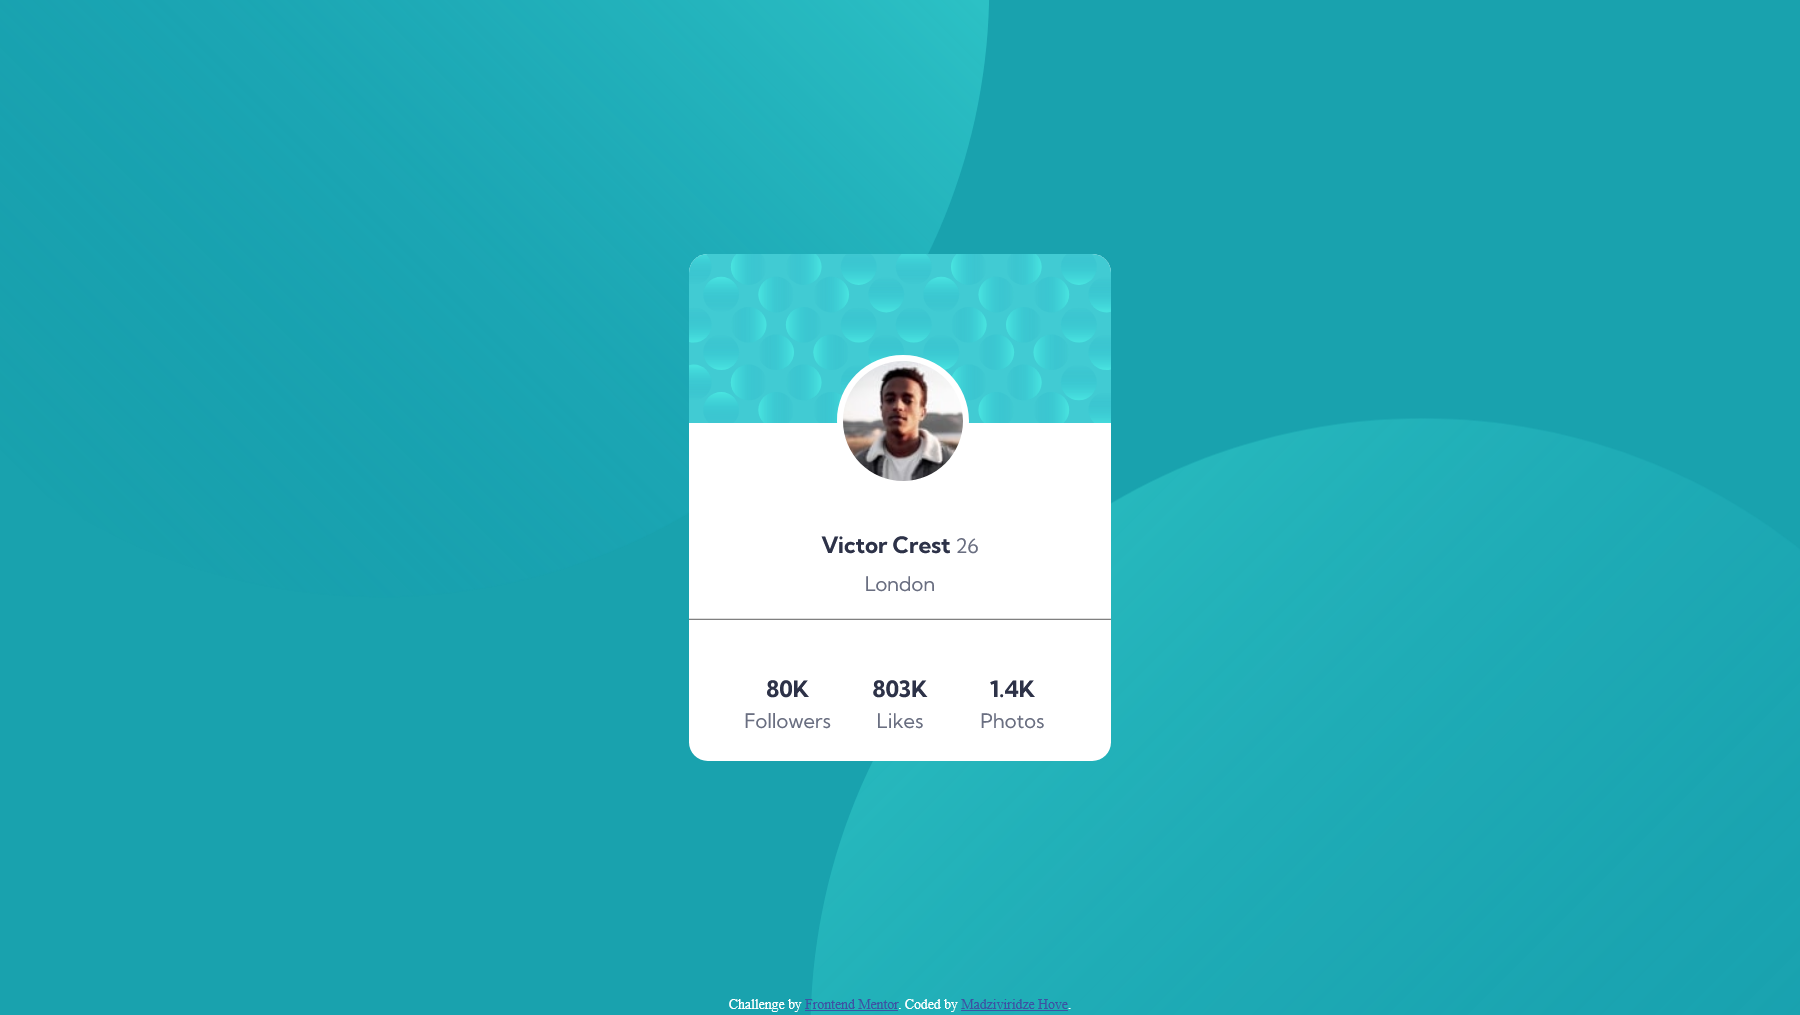
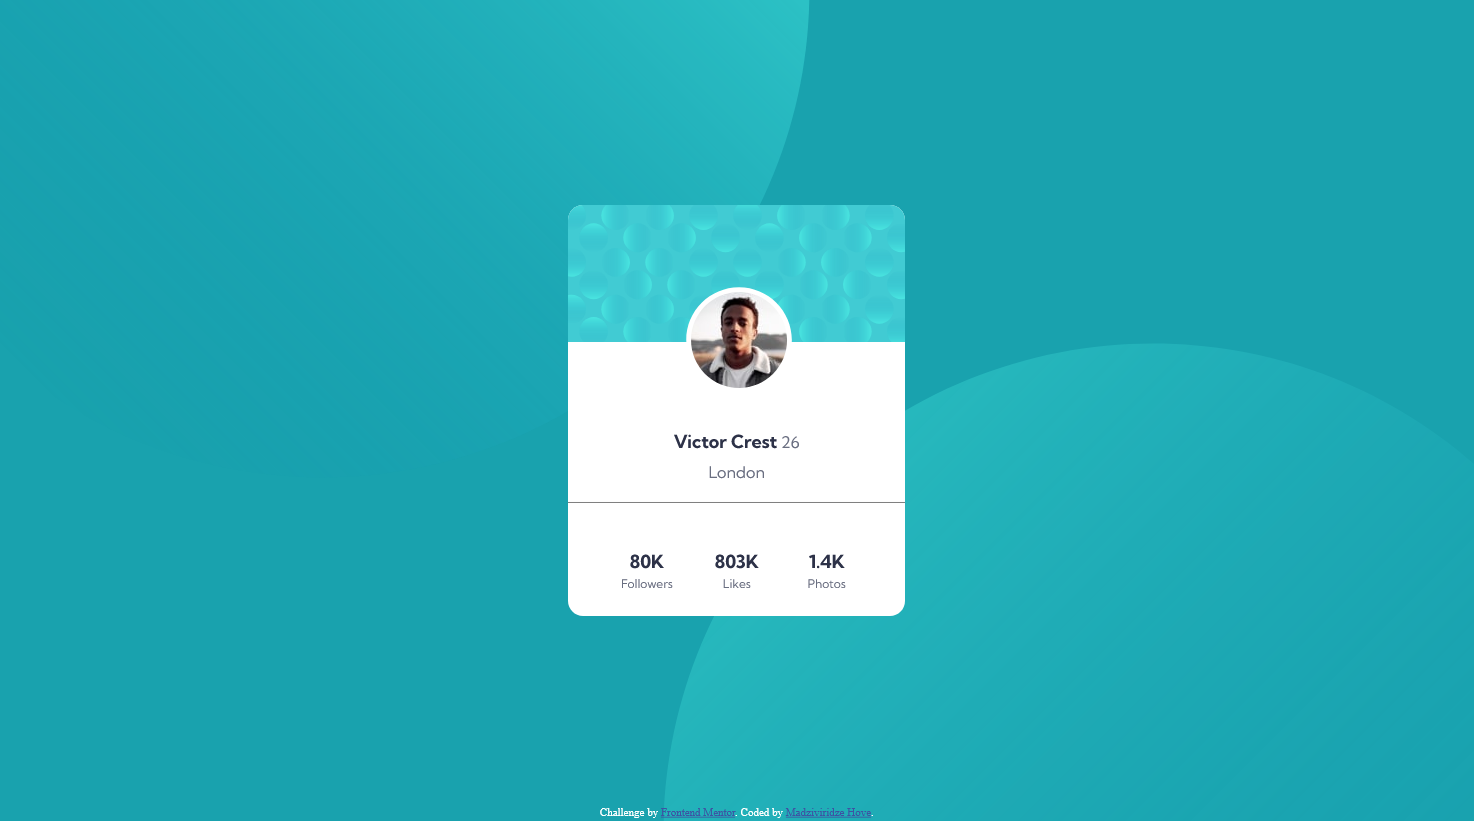
new screenshot and changes to style sheet

diff --git a/css/style.css b/css/style.css
@@ -117,7 +117,7 @@
 }
 
 hr {
-    border-top: 1px solid gainsboro;
+    border-top: 1px solid hsl(0, 0%, 99%);
     width: 100%;
 }
 
@@ -134,6 +134,10 @@ hr {
     text-align: center;
     text-transform: capitalize;
     
+}
+
+.profile-stats-list__item p {
+    font-size: 12px;
 }
 
 
